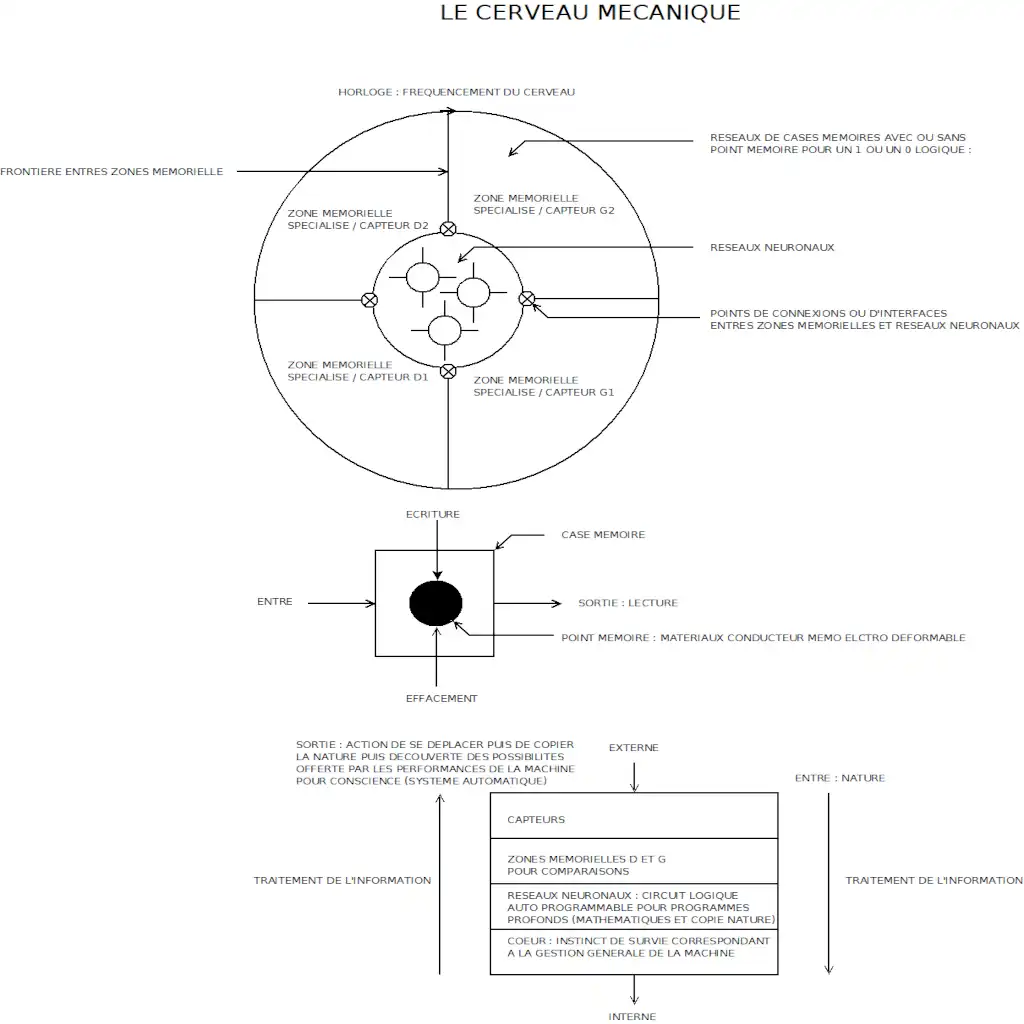
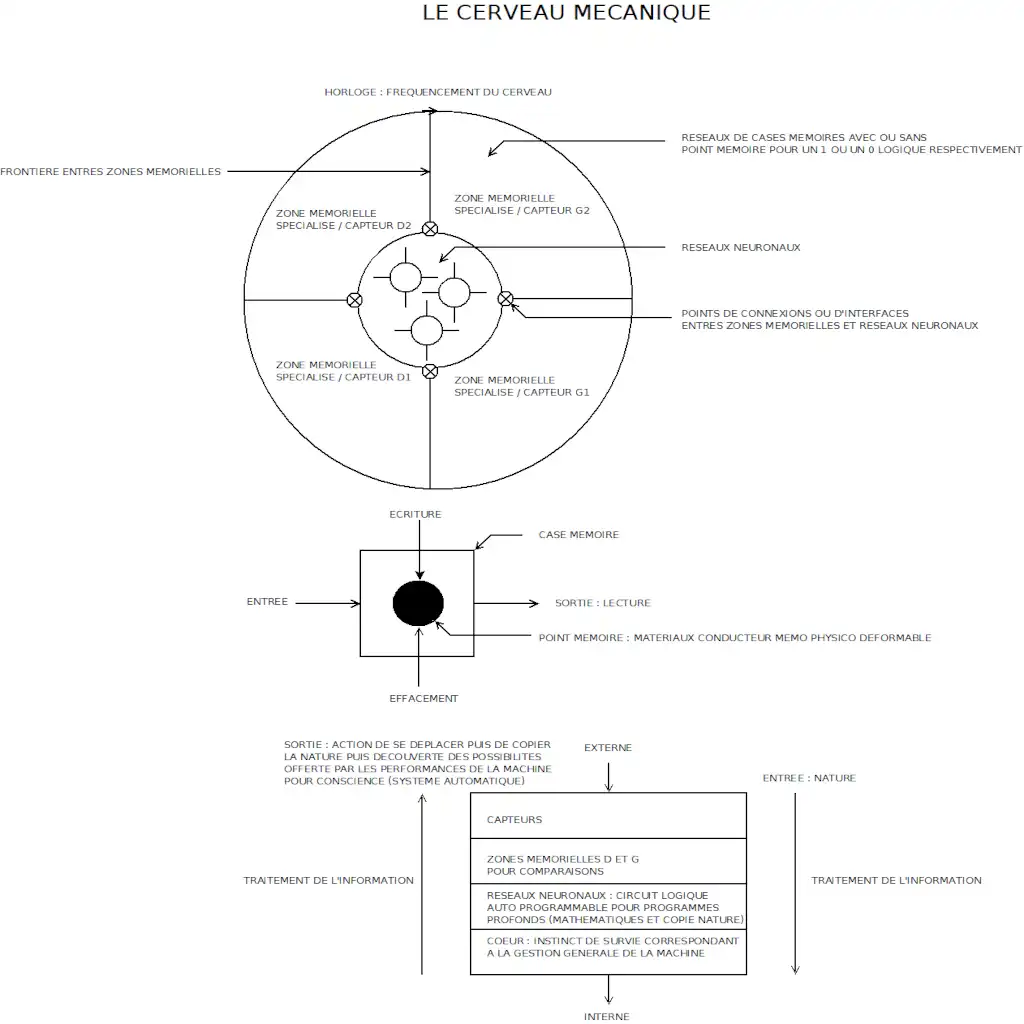
Clear content

diff --git a/le_cerveau_mecanique.php b/le_cerveau_mecanique.php
@@ -26,16 +26,16 @@ echo '
                     <aside class="div-section-div-aside">
                         <p class="div-section-div-aside-p">Description</p>
                         <ul class="div-section-div-aside-ul">
-                            <li class="div-section-aside-ul-li">Il s\'agit de montrer ma vision d\'une architecteur de cerveau mécanique.</li>
-                            <li class="div-section-aside-ul-li">En vue d\'une approche mecanique de la mémoire.</li>
-                            <li class="div-section-aside-ul-li">Le plus important c\'est que pour moi le cerveau mecanique est gérer par un coeur, un coeur qui a notion du bien et du mal et choisi toujours le bien pour prendre une décision.</li>
+                            <li class="div-section-aside-ul-li">Il s\'agit de montrer ma vision d\'une architecture de cerveau mécanique.</li>
+                            <li class="div-section-aside-ul-li">En vue d\'une approche mécanique de la mémoire.</li>
+                            <li class="div-section-aside-ul-li">Le plus important c\'est que pour moi le cerveau mécanique est gérer par un coeur, un coeur qui a notion du bien et du mal et choisit toujours le bien pour prendre une décision.</li>
                             <li class="div-section-aside-ul-li">Ce coeur est basé sur un instinct de survie. Pour moi c\'est l\'unique loi qui doit régir une machine capable d\'apprendre par elle même. C\'est ce qui la rend intelligente.</li>
                             <li class="div-section-aside-ul-li">Le reseaux neuronaux quand à lui est la pour permettre une conscience de la machine par automatique : il est basé sur un circuit logique auto programmable avec une partie réservé par une connaissance des mathématiques et l\'obligation de copier la nature.</li>
                             <li class="div-section-aside-ul-li">Les capteurs renseignent de l\'environnement extérieur puis il y a après traitement de l\'information des actions primordiales de déplacements et de copiage de la nature.</li>
                             <li class="div-section-aside-ul-li">Ce copiage entre de nouveaux en interne pas l\'intermédiaire des capteurs afin que la machine est connaissance de ses performances, c\'est ce qui permet la conscience de la machine.</li>
-                            <li class="div-section-aside-ul-li">Les zones mémorielles sont protégé les unes des autres par des frontières mais il y a des points de connexions entre celles ci et le réseaux neuronaux. Les comparaisons ce font entre la partie droite (D) et gauche (G) par symétrie dans le réseau de neuronnes.</li>
-                            <li class="div-section-aside-ul-li">Les neuronnes sont fixe dans l\'espace ils ont tous une place spécifique est des rôles particuliers pour exécuter des tâches spécifiques.</li>
-                            <li class="div-section-aside-ul-li">La machine est cadencé par une certaine fréquence et par une horloge électronique.</li>
+                            <li class="div-section-aside-ul-li">Les zones mémorielles sont protégées les unes des autres par des frontières mais il y a des points de connexions entre celles ci et le réseaux neuronaux. Les comparaisons ce font entre la partie droite (D) et gauche (G) par symétrie dans le réseau de neuronnes.</li>
+                            <li class="div-section-aside-ul-li">Les neuronnes sont fixe dans l\'espace, ils ont tous une place spécifique et des rôles particuliers.</li>
+                            <li class="div-section-aside-ul-li">La machine est cadencé par une certaine fréquence avec une horloge électronique.</li>
                             <li class="div-section-aside-ul-li">La mémoire est constitué d\'un réseaux de case et de points à l\'intérieur de celle ci. Quand ce point atteind une dimension assez grande finie dans le temps alors il y a mémoire. Et a contario si sa taille est petite alors il n\'y a pas de 1 logique mémoriser, on a donc un 0 logique.</li>
                             <li class="div-section-aside-ul-li">Une grandeur physique entre pour faire grossir ce point pour mémoriser l\'information. De même sur une autre entrée une grandeur physique permet de réduire les dimensions de ce point pour effacement. Cela constitue l\'écriture.</li>
                             <li class="div-section-aside-ul-li">Quand on est sur un 1 logique il y a une conduction électrique entre une entré et une sortie, c\'est la lecture.</li>
